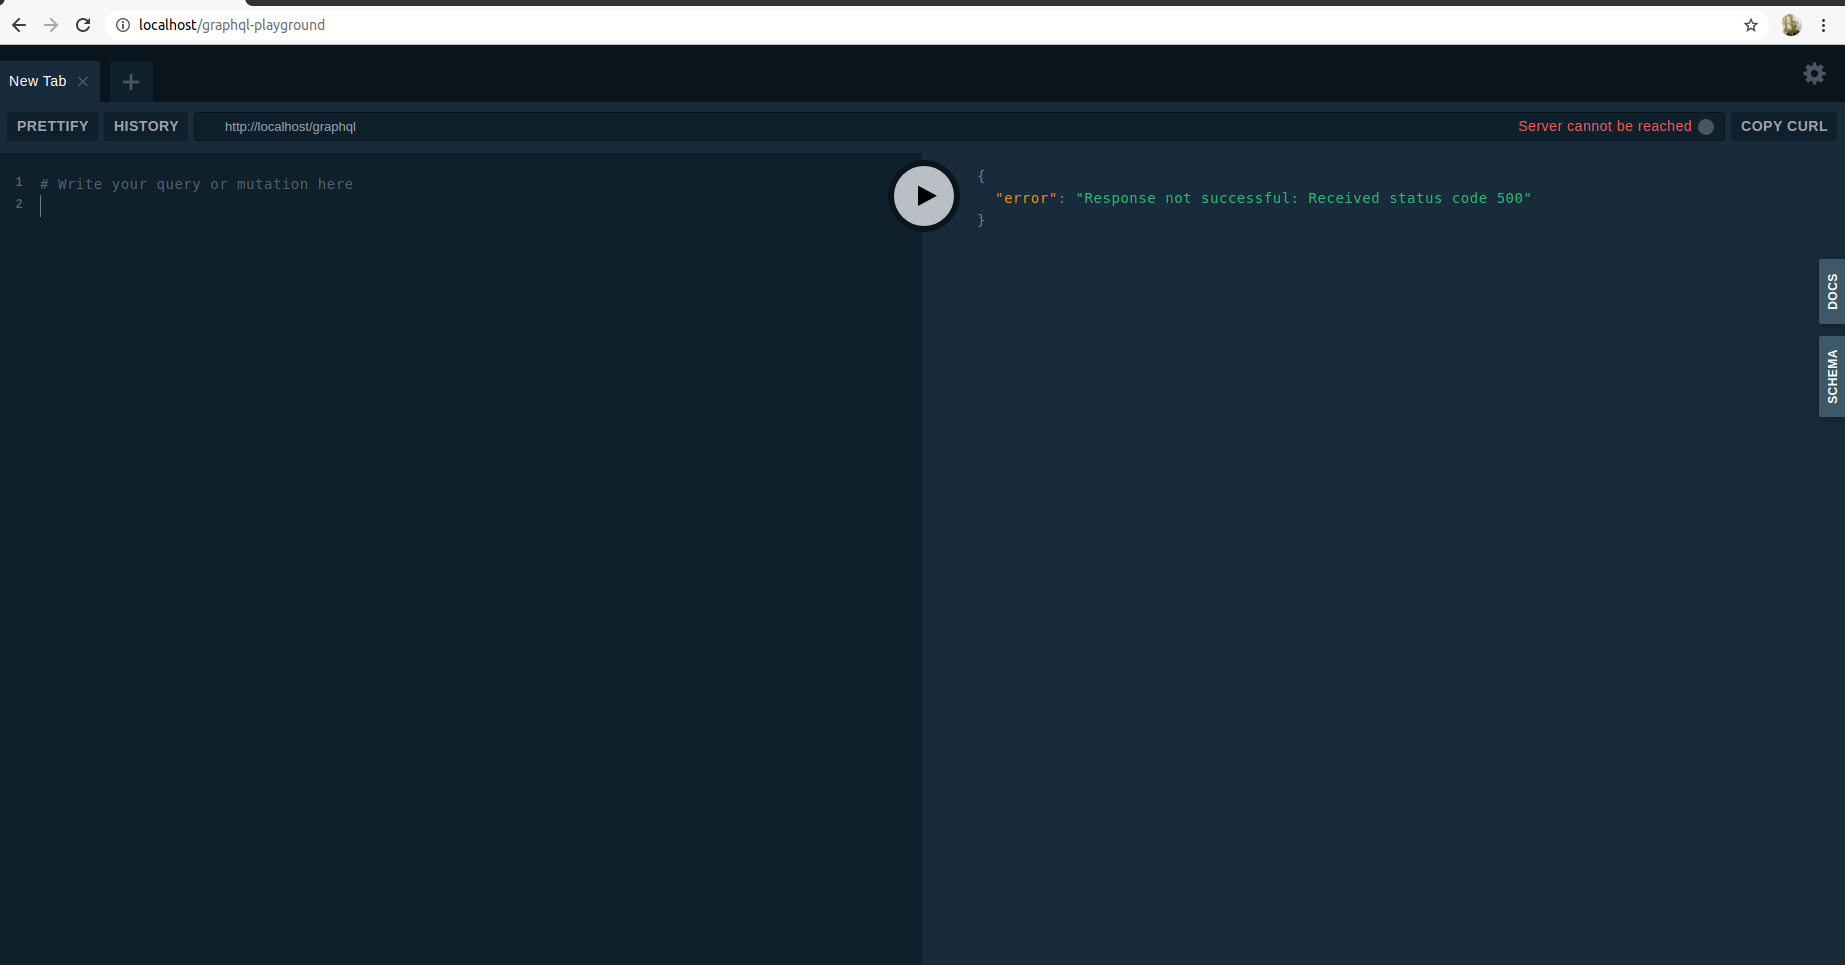
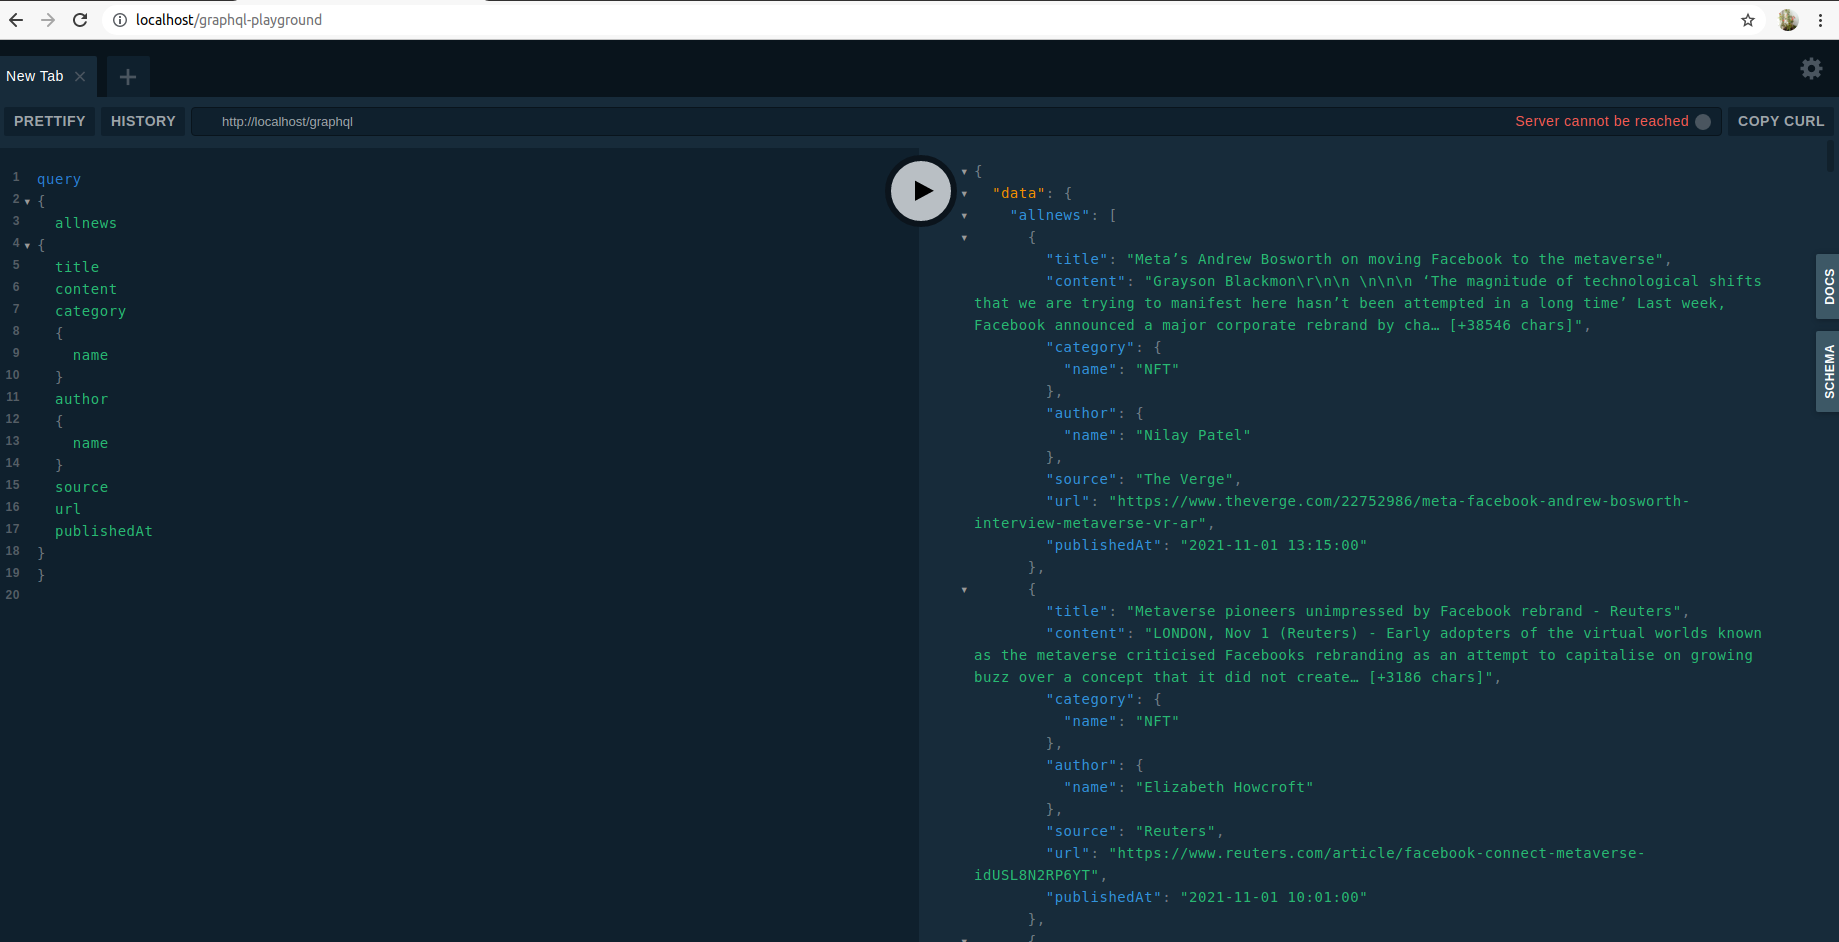
README.md

diff --git a/app/Console/Kernel.php b/app/Console/Kernel.php
@@ -26,6 +26,6 @@ class Kernel extends ConsoleKernel
     protected function schedule(Schedule $schedule)
     {
         $schedule->command('article:refresh')
-            ->everyFiveMinutes();
+            ->everyFourHours();
     }
 }

diff --git a/README.md b/README.md
@@ -28,12 +28,18 @@
 `php artisan article:refresh`
 Это основная команда. В ней выполняется парсинг. 
    
-10. Тесты `./vendor/bin/phpunit`
+9. Тесты `./vendor/bin/phpunit`
 
+10. Настроено обновление каждые 4 часа по CRON. CRON нужно настраивать
+```php
+    $schedule->command('article:refresh')->everyFourHours();
+```
 
 
 Если интересует GraphQL в проекте ,то открыть страницу проверки  Graph QL API `http://localhost/graphql-playground`, то есть добавляется в URL справа`/graphql-playground`
 ![Картинка](/public/support/graphql_playground.png)
+Можно и по команде
+`php artisan article:refresh`
 
 **Структура БД**
 
@@ -165,4 +171,62 @@ updated_at timestamp    null
     }
 }
 
+```
+
+
+**GraphQL Query**
+```json
+query
+{
+  allnews
+{   
+  title
+  content
+  category
+  {
+		name
+  }
+  author
+  {
+    name
+  }
+  source
+  url
+  publishedAt
+}
+}
+
+```
+
+Result:
+```json
+{
+  "data": {
+    "allnews": [
+      {
+        "title": "Meta’s Andrew Bosworth on moving Facebook to the metaverse",
+        "content": "Grayson Blackmon\r\n\n \n\n\n ‘The magnitude of technological shifts that we are trying to manifest here hasn’t been attempted in a long time’ Last week, Facebook announced a major corporate rebrand by cha… [+38546 chars]",
+        "category": {
+          "name": "NFT"
+        },
+        "author": {
+          "name": "Nilay Patel"
+        },
+        "source": "The Verge",
+        "url": "https://www.theverge.com/22752986/meta-facebook-andrew-bosworth-interview-metaverse-vr-ar",
+        "publishedAt": "2021-11-01 13:15:00"
+      },
+      {
+        "title": "Metaverse pioneers unimpressed by Facebook rebrand - Reuters",
+        "content": "LONDON, Nov 1 (Reuters) - Early adopters of the virtual worlds known as the metaverse criticised Facebooks rebranding as an attempt to capitalise on growing buzz over a concept that it did not create… [+3186 chars]",
+        "category": {
+          "name": "NFT"
+        },
+        "author": {
+          "name": "Elizabeth Howcroft"
+        },
+        "source": "Reuters",
+        "url": "https://www.reuters.com/article/facebook-connect-metaverse-idUSL8N2RP6YT",
+        "publishedAt": "2021-11-01 10:01:00"
+      },
 ```
